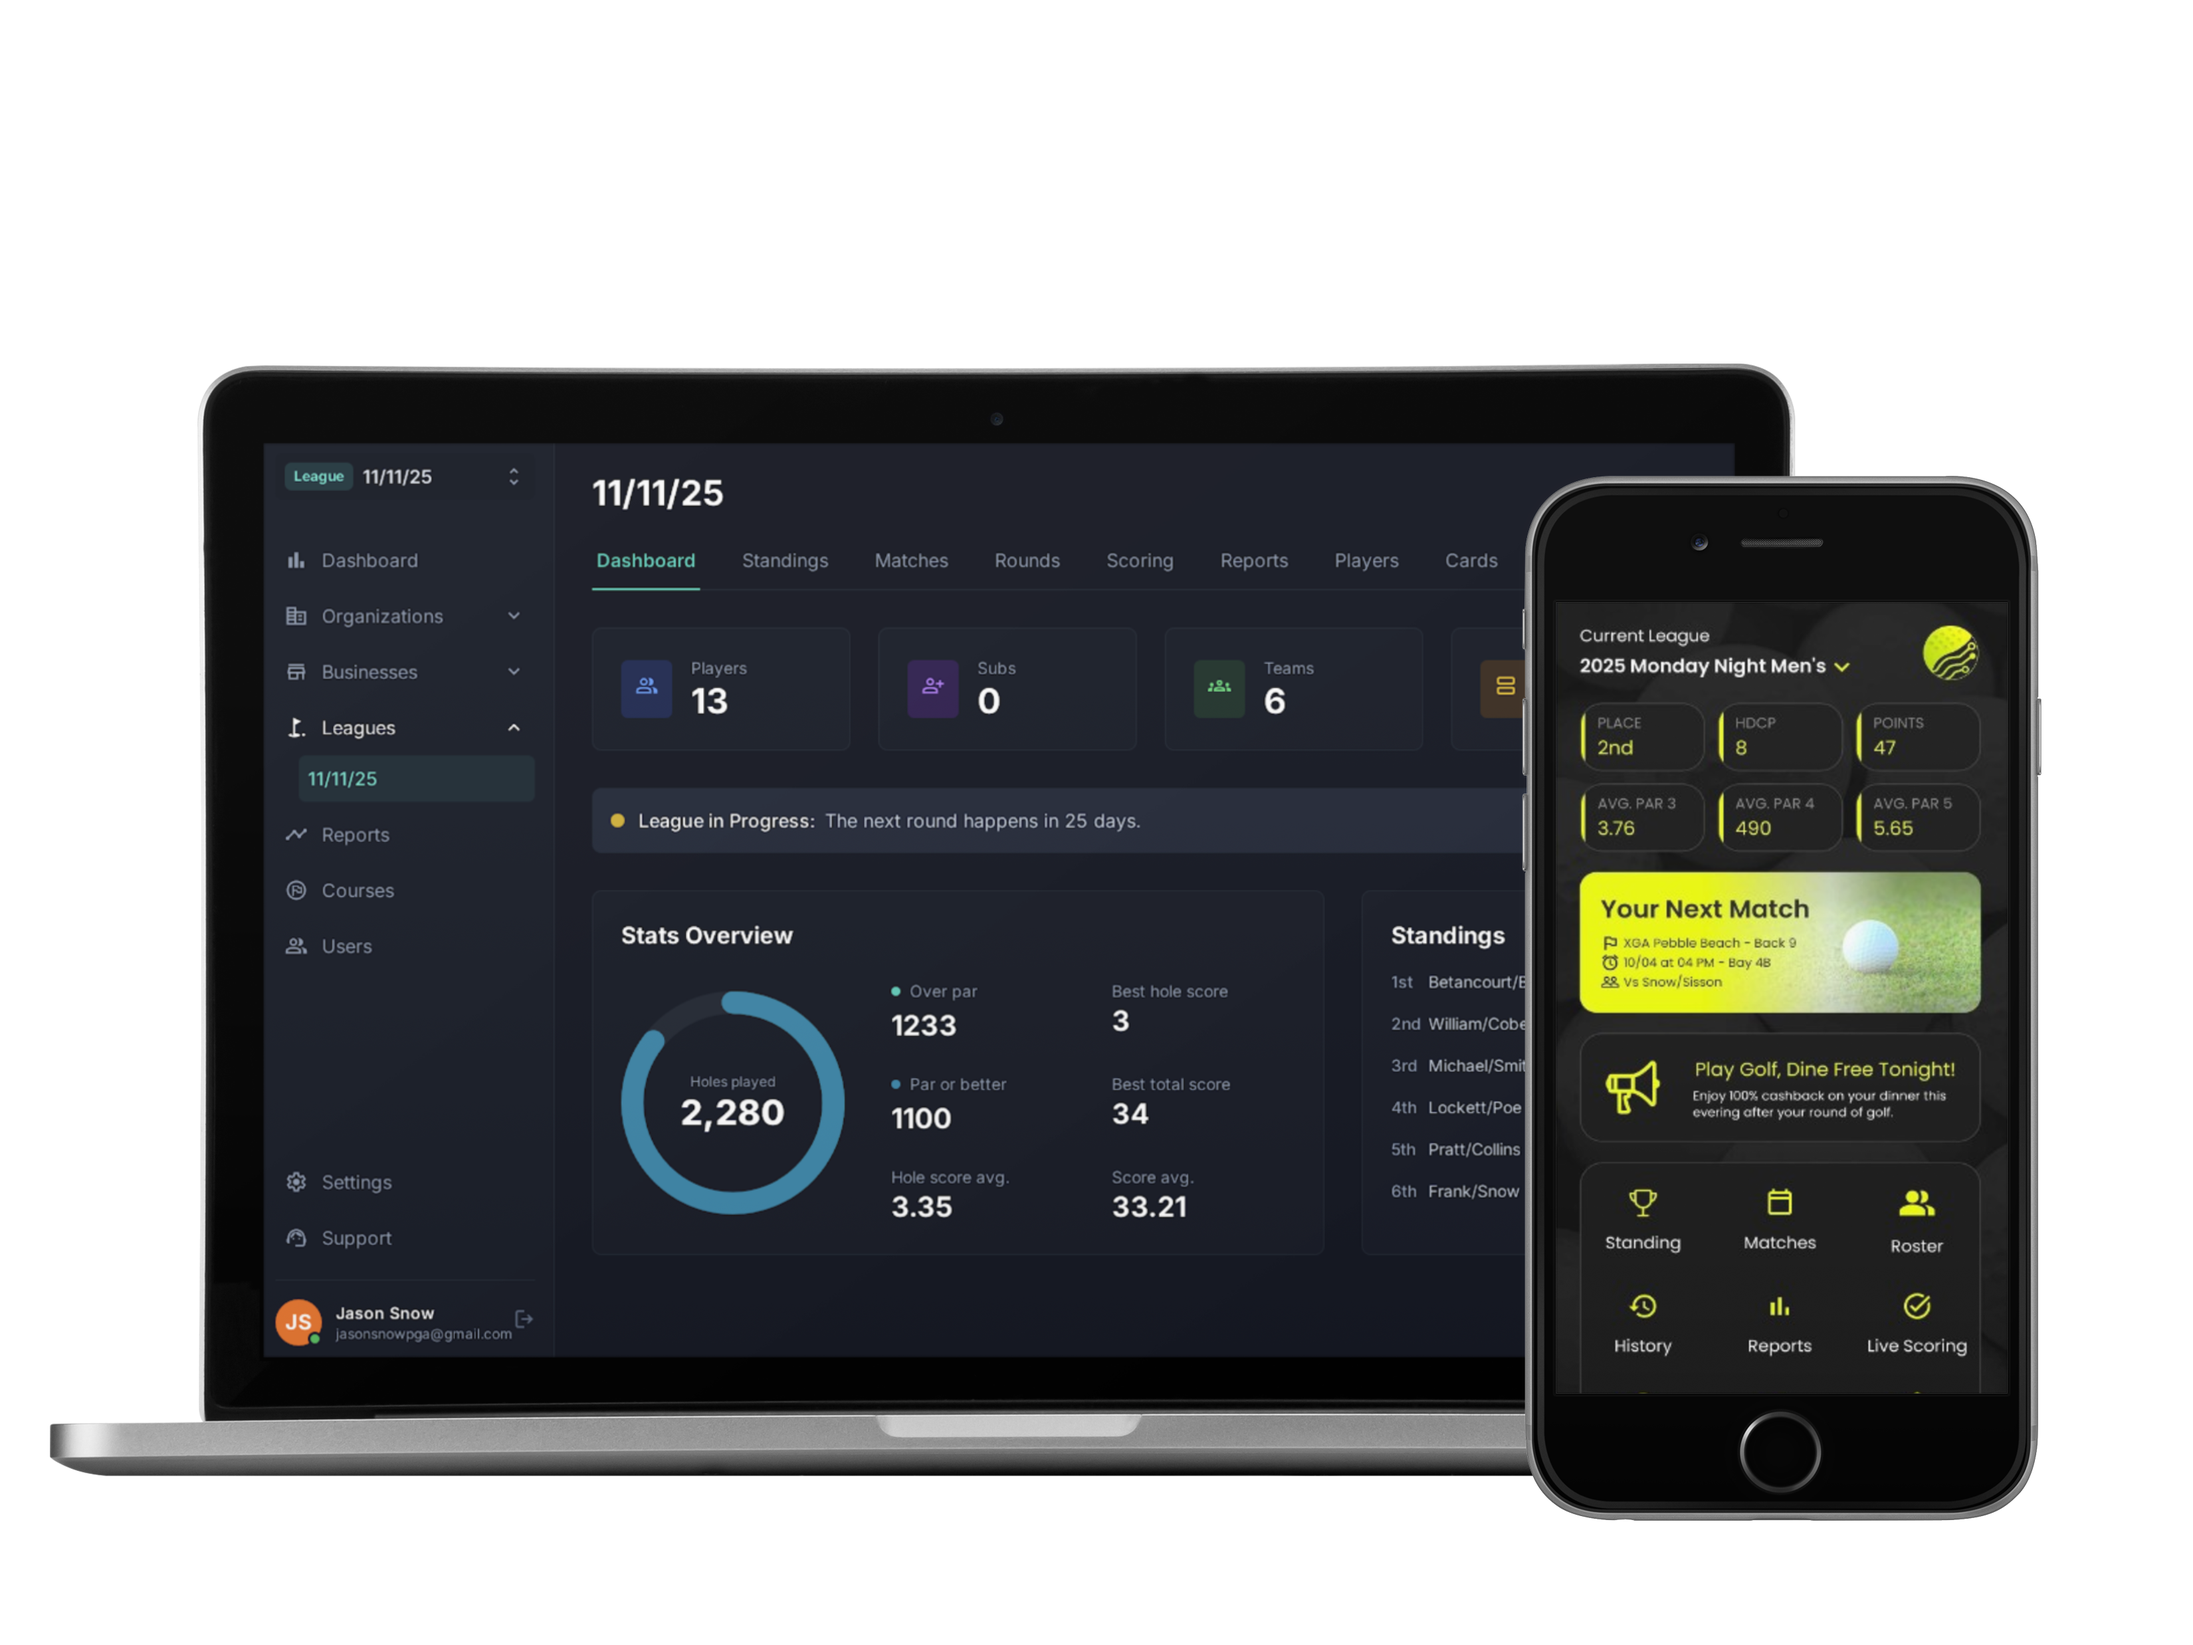
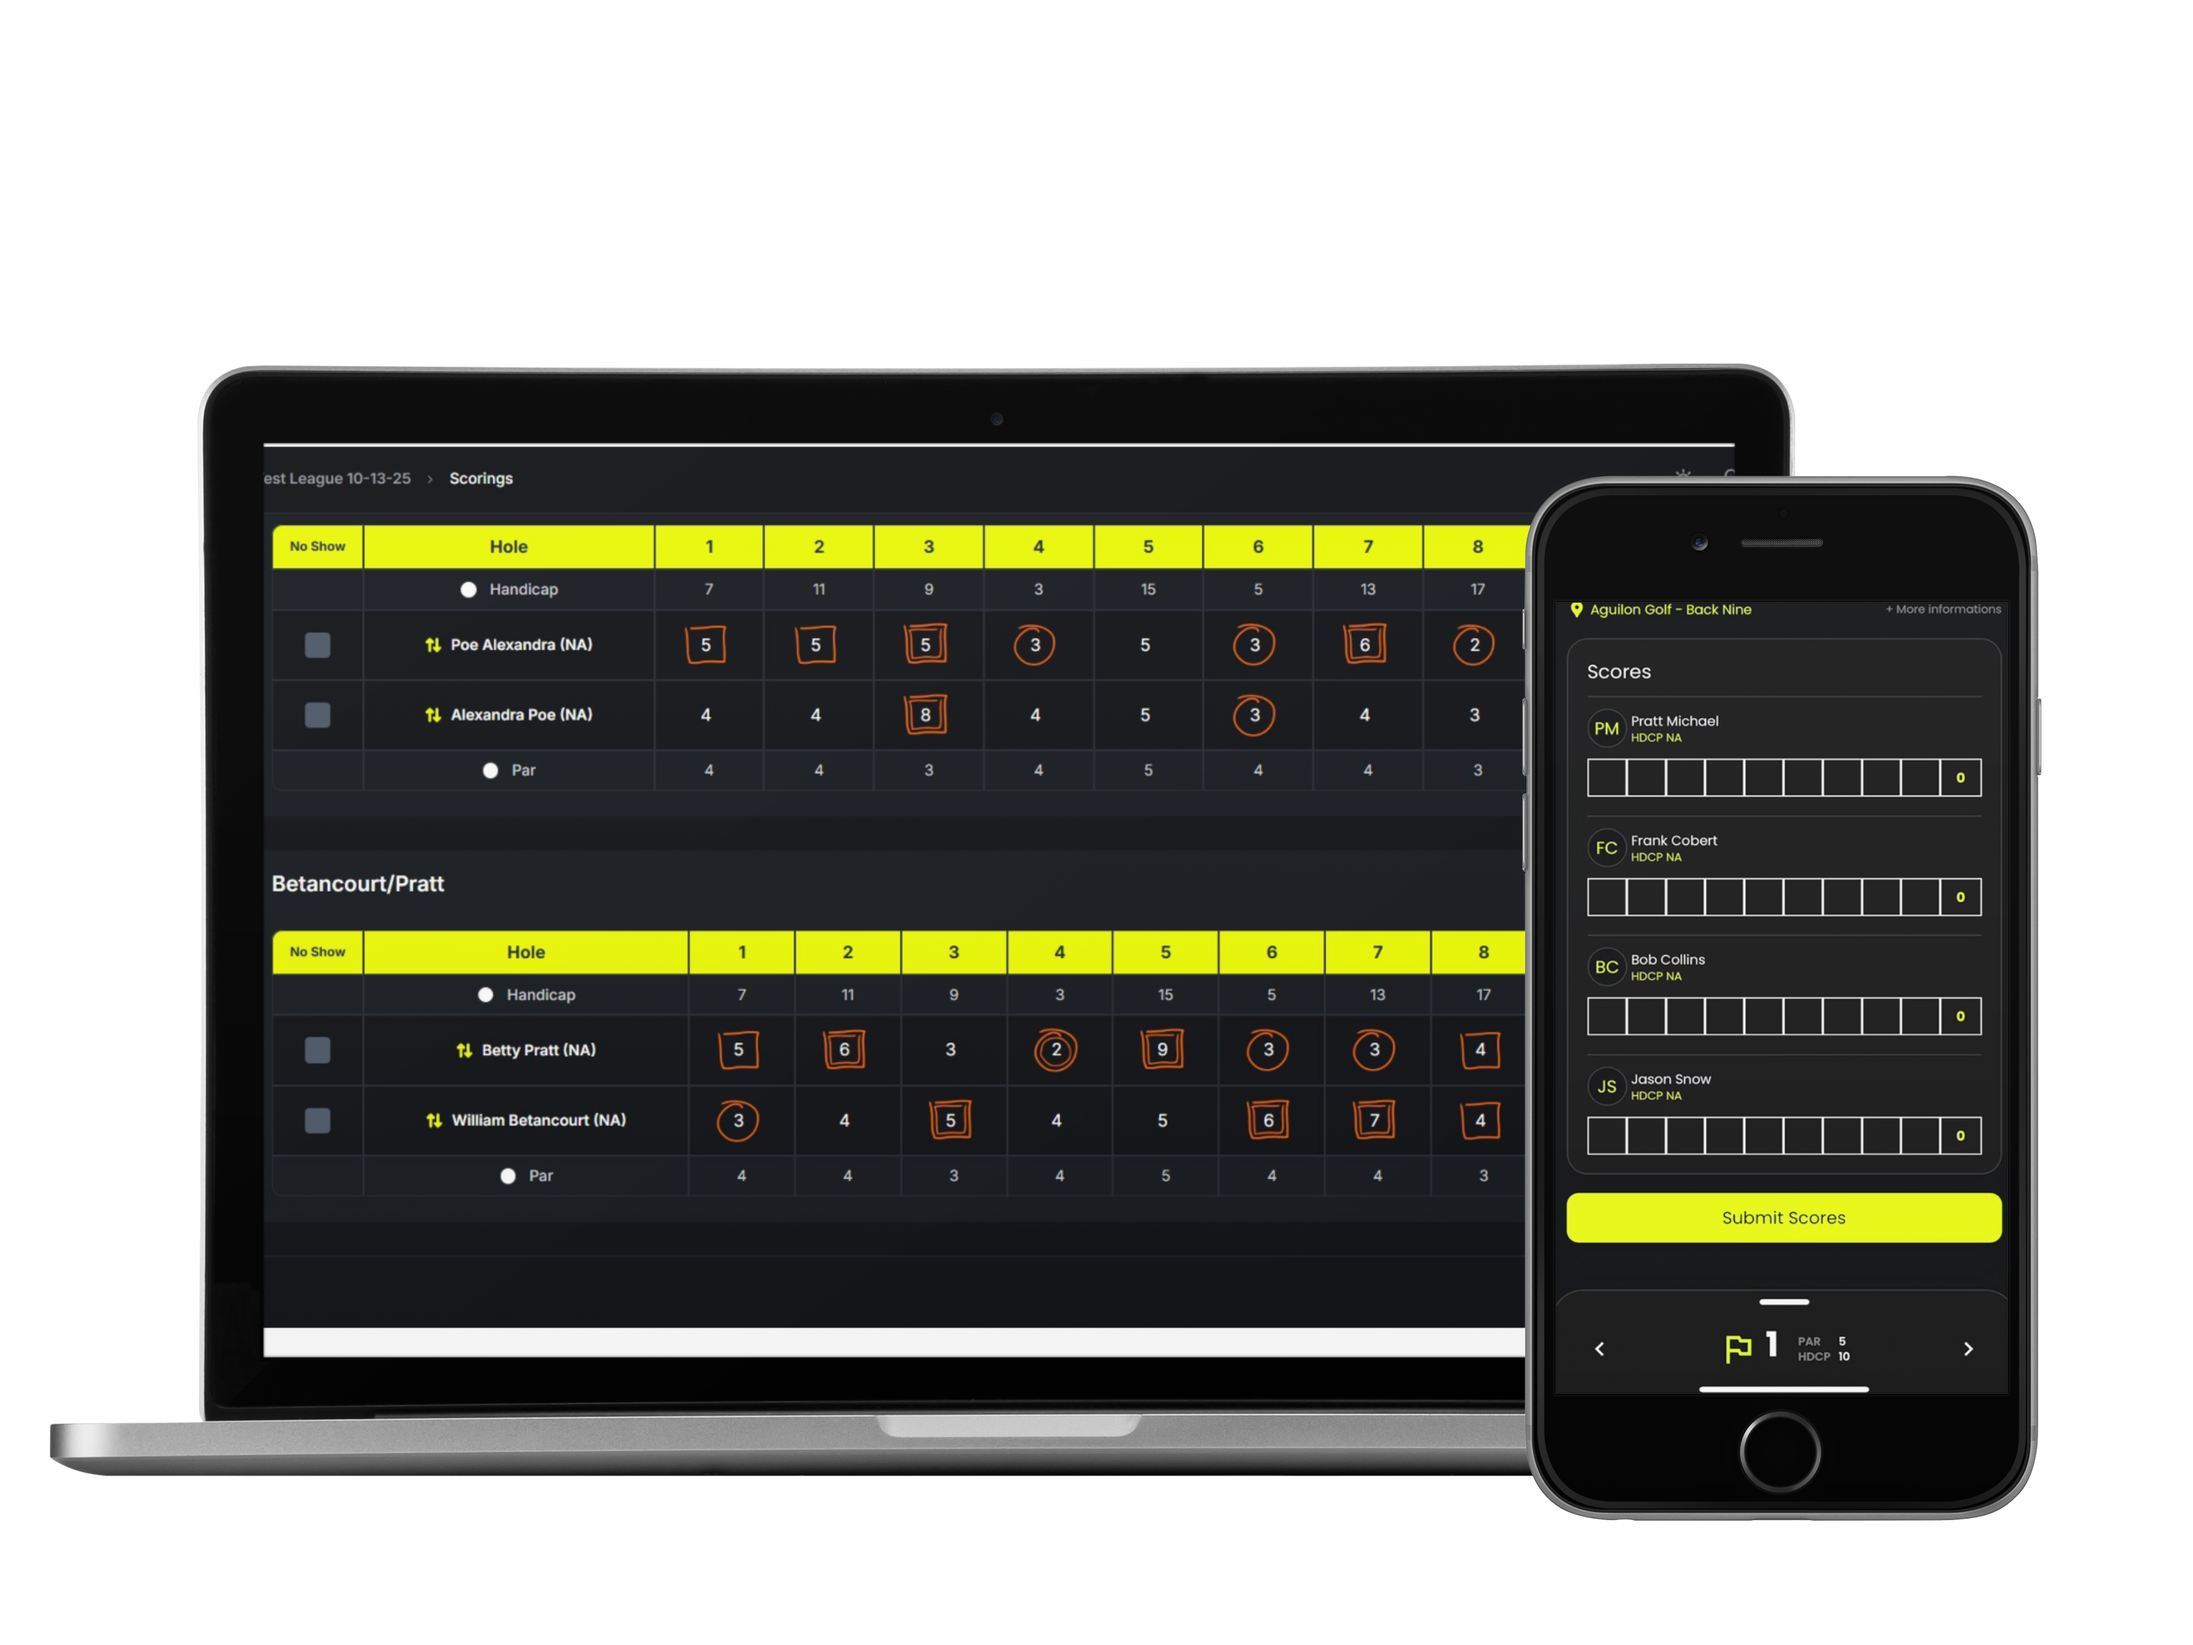
Update colors

diff --git a/style.css b/style.css
@@ -1335,7 +1335,7 @@ select {
 
 .bg-primary-500 {
   --tw-bg-opacity: 1;
-  background-color: rgb(244 254 0 / var(--tw-bg-opacity));
+  background-color: rgb(49 228 205 / var(--tw-bg-opacity));
 }
 
 .bg-white {
@@ -1536,7 +1536,7 @@ select {
 
 .text-primary-500 {
   --tw-text-opacity: 1;
-  color: rgb(244 254 0 / var(--tw-text-opacity));
+  color: rgb(49 228 205 / var(--tw-text-opacity));
 }
 
 .text-white {
@@ -3872,7 +3872,7 @@ select{
   left: 0;
   height: 100%;
   width: 100%;
-  background: linear-gradient(to right, rgb(244, 254, 0, 0.7), rgb(244, 254, 0));
+  background: linear-gradient(to right, rgb(47, 228, 205, 0.7), rgb(47, 228, 205));
   -webkit-animation: move-and-fade 2s ease-in-out infinite;
           animation: move-and-fade 2s ease-in-out infinite;
   -webkit-animation-delay: 1s;
@@ -3895,7 +3895,7 @@ select{
   left: 0;
   height: 100%;
   width: 100%;
-  background: linear-gradient(to right, rgb(244, 254, 0, 0.7), rgb(244, 254, 0));
+  background: linear-gradient(to right, rgb(47, 228, 205, 0.7), rgb(47, 228, 205));
   -webkit-animation: move-and-fade 2s ease-in-out infinite;
           animation: move-and-fade 2s ease-in-out infinite;
   opacity: 0;
@@ -4155,7 +4155,7 @@ select{
 @-webkit-keyframes pulse-animation {
   0% {
     border-radius: 50px;
-    box-shadow: 0 0 0 0px rgba(244, 254, 0, 1);
+    box-shadow: 0 0 0 0px rgba(47, 228, 205, 1);
   }
 
   100% {
@@ -4167,7 +4167,7 @@ select{
 @keyframes pulse-animation {
   0% {
     border-radius: 50px;
-    box-shadow: 0 0 0 0px rgba(244, 254, 0, 1);
+    box-shadow: 0 0 0 0px rgba(47, 228, 205, 1);
   }
 
   100% {
@@ -4177,7 +4177,7 @@ select{
 }
 
 .gradient-animation {
-  background: repeating-linear-gradient(90deg, rgba(244, 254, 0, 1) 0%, rgba(244, 254, 0, 0.8) 33%, rgba(244, 254, 0, 1) 66%, rgba(244, 254, 0, 0.8) 100%);
+  background: repeating-linear-gradient(90deg, rgba(47, 228, 205, 1) 0%, rgba(47, 228, 205, 0.8) 33%, rgba(47, 228, 205, 1) 66%, rgba(47, 228, 205, 0.8) 100%);
   -webkit-background-clip: text;
   -webkit-text-fill-color: transparent;
   background-repeat:repeat-x;
@@ -6909,7 +6909,7 @@ input[type=range]::-moz-focus-outer {
 
 .hover\:bg-primary-500:hover {
   --tw-bg-opacity: 1;
-  background-color: rgb(244 254 0 / var(--tw-bg-opacity));
+  background-color: rgb(49 228 205 / var(--tw-bg-opacity));
 }
 
 .hover\:text-gray-100:hover {

diff --git a/index.html b/index.html
@@ -84,8 +84,8 @@
                       ></path>
                       <defs>
                         <linearGradient id="SvgjsLinearGradient1000">
-                          <stop stop-color="#9EA500" offset="0"></stop>
-                          <stop stop-color="#f4fe00" offset="1"></stop>
+                          <stop stop-color="#167a6e" offset="0"></stop>
+                          <stop stop-color="#2dd4bf" offset="1"></stop>
                         </linearGradient>
                       </defs>
                     </svg>
@@ -310,7 +310,7 @@
                   >
                     <article class="relative max-w-md mx-auto md:max-w-none">
                       <figure class="md:absolute md:inset-y-0 md:right-0">
-                        <img class="w-full h-full object-cover" src="./images/iphone-mockup.png" alt="Tabs 01" />
+                        <img class="w-full h-full object-cover" src="./images/sgl-mockup.png" alt="Tabs 01" />
                       </figure>
                       <div class="relative bg-gray-800 py-8 md:py-16 px-6 md:pr-16 md:max-w-lg lg:max-w-xl">
                         <h4 class="h4 mb-2">Built for Every Sim Business</h4>

diff --git a/tailwind.config.js b/tailwind.config.js
@@ -44,7 +44,7 @@ module.exports = {
           200: '#B3E7CC',
           300: '#80D7A9',
           400: '#4DC787',
-          500: '#F4FE00',
+          500: '#31e4cd',
           600: '#24925D',
           700: '#1C7047',
           800: '#134E31',
